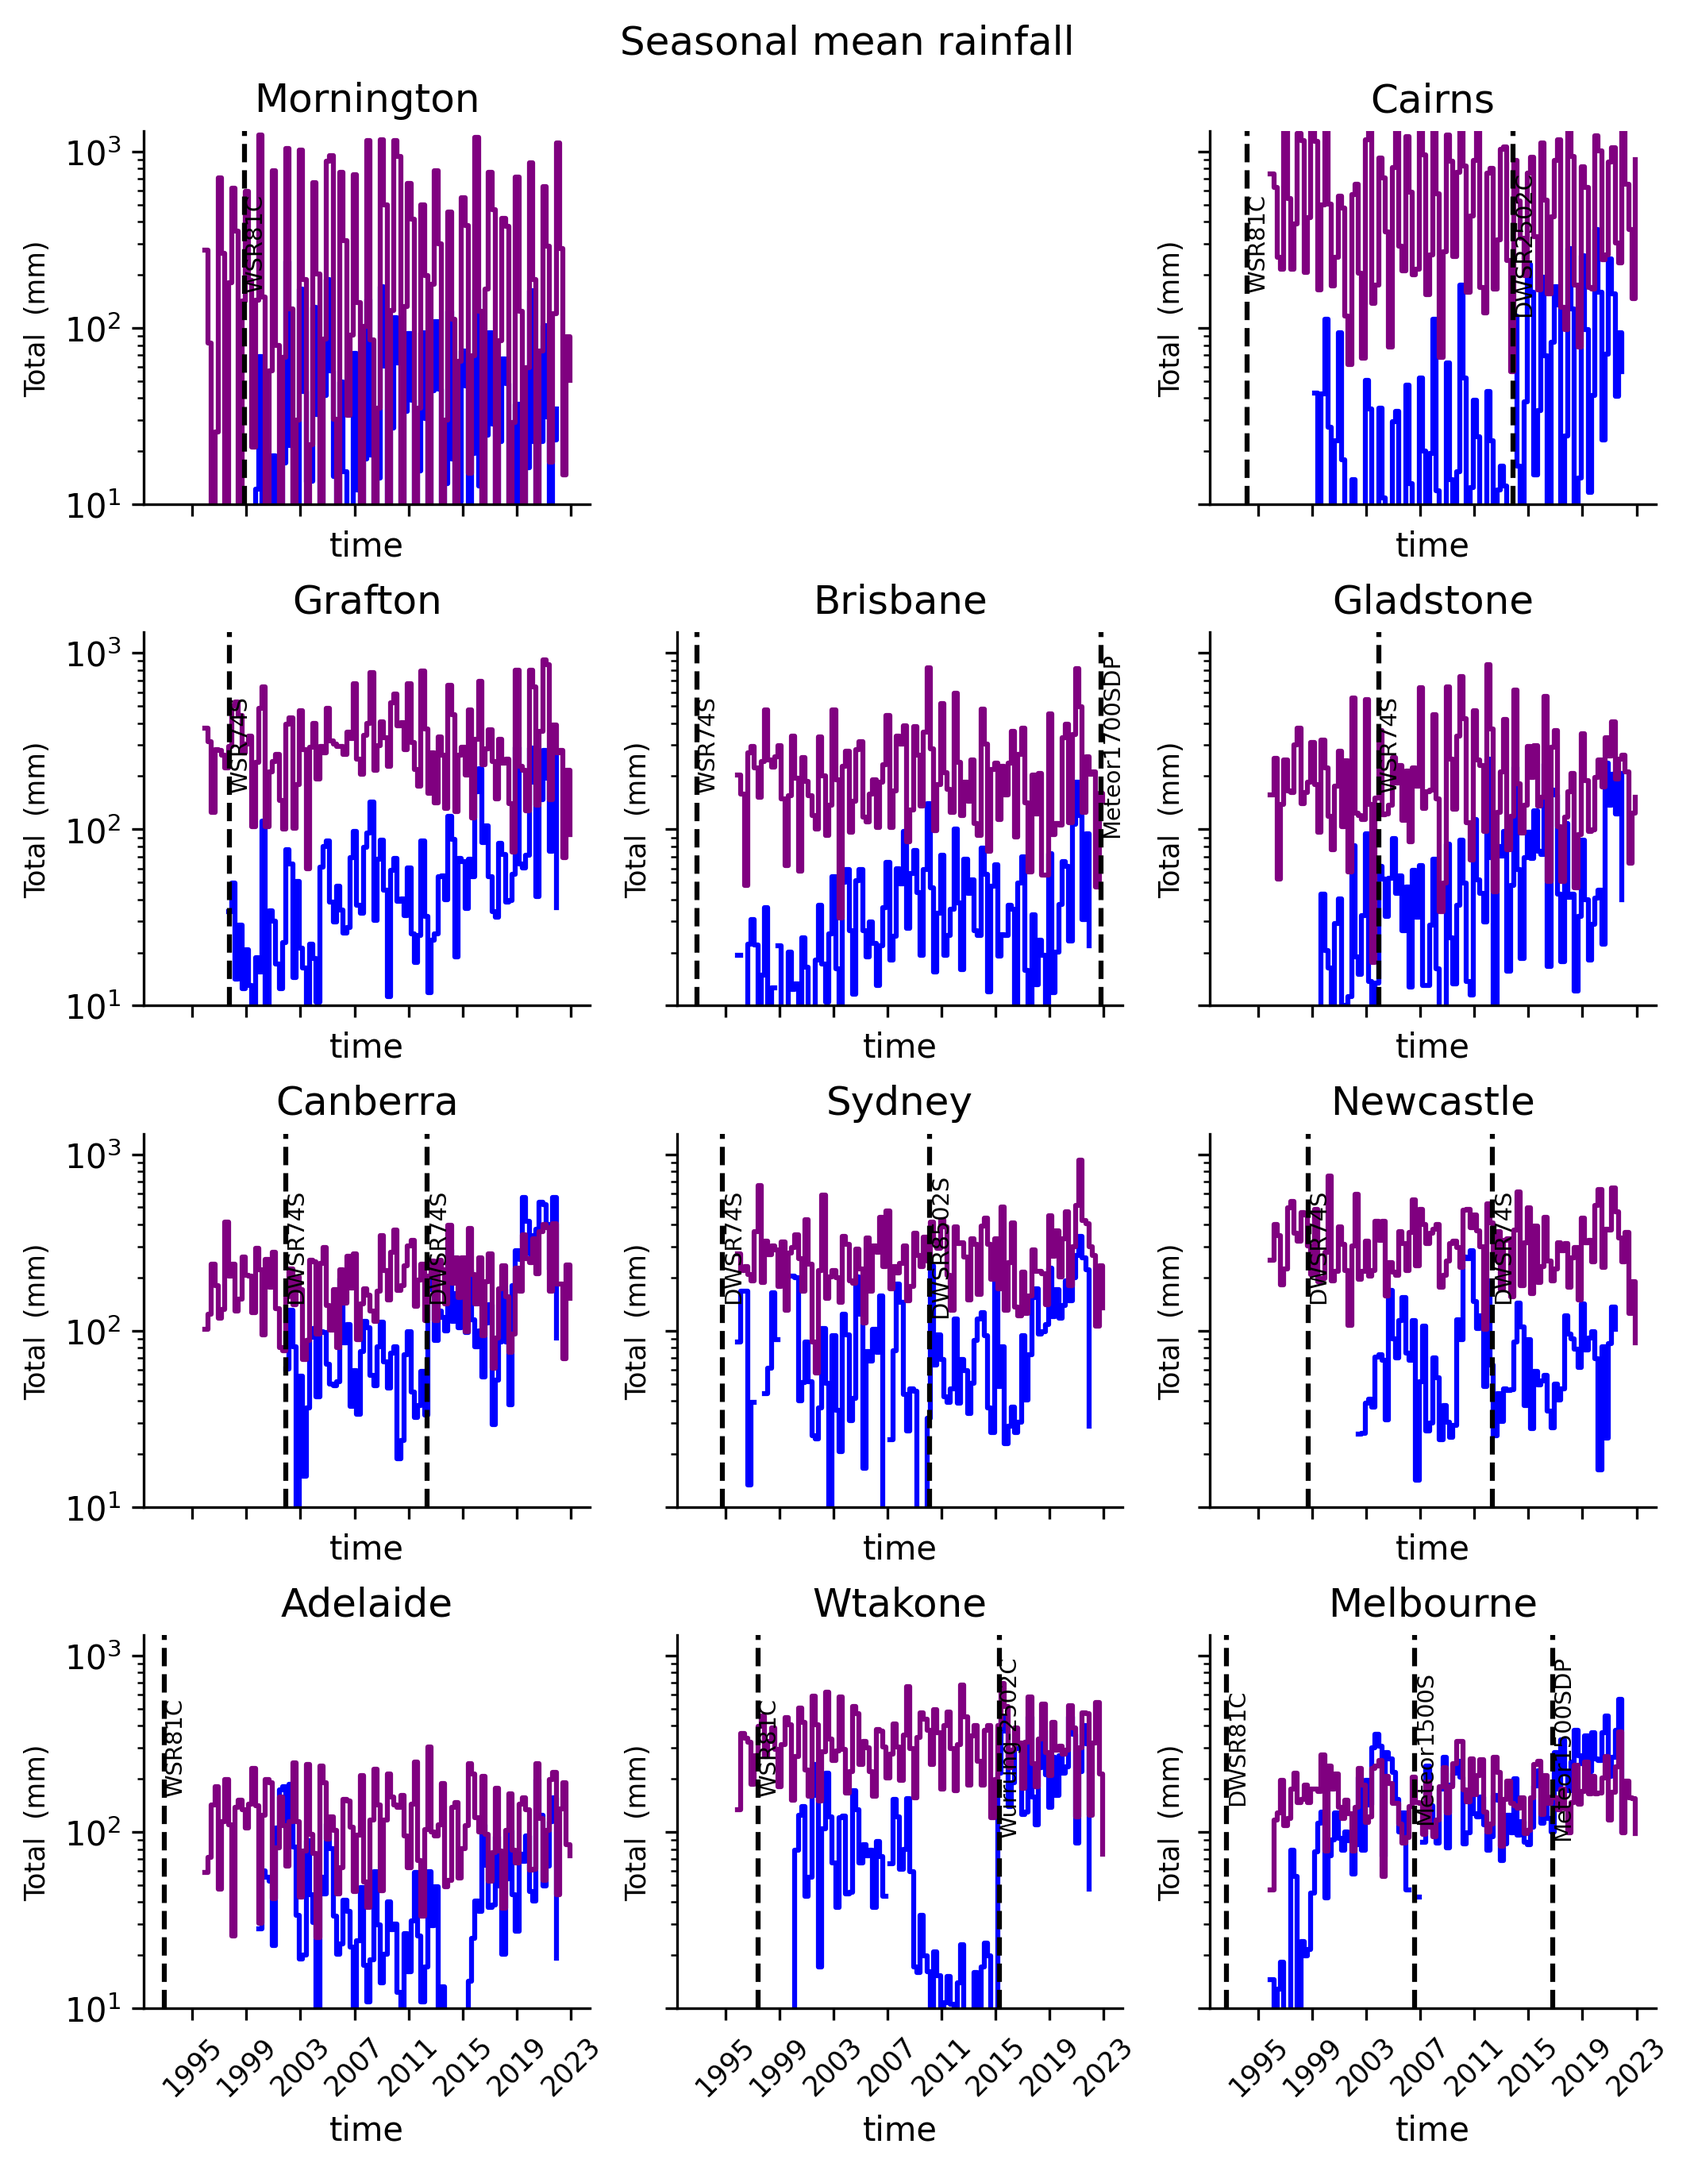
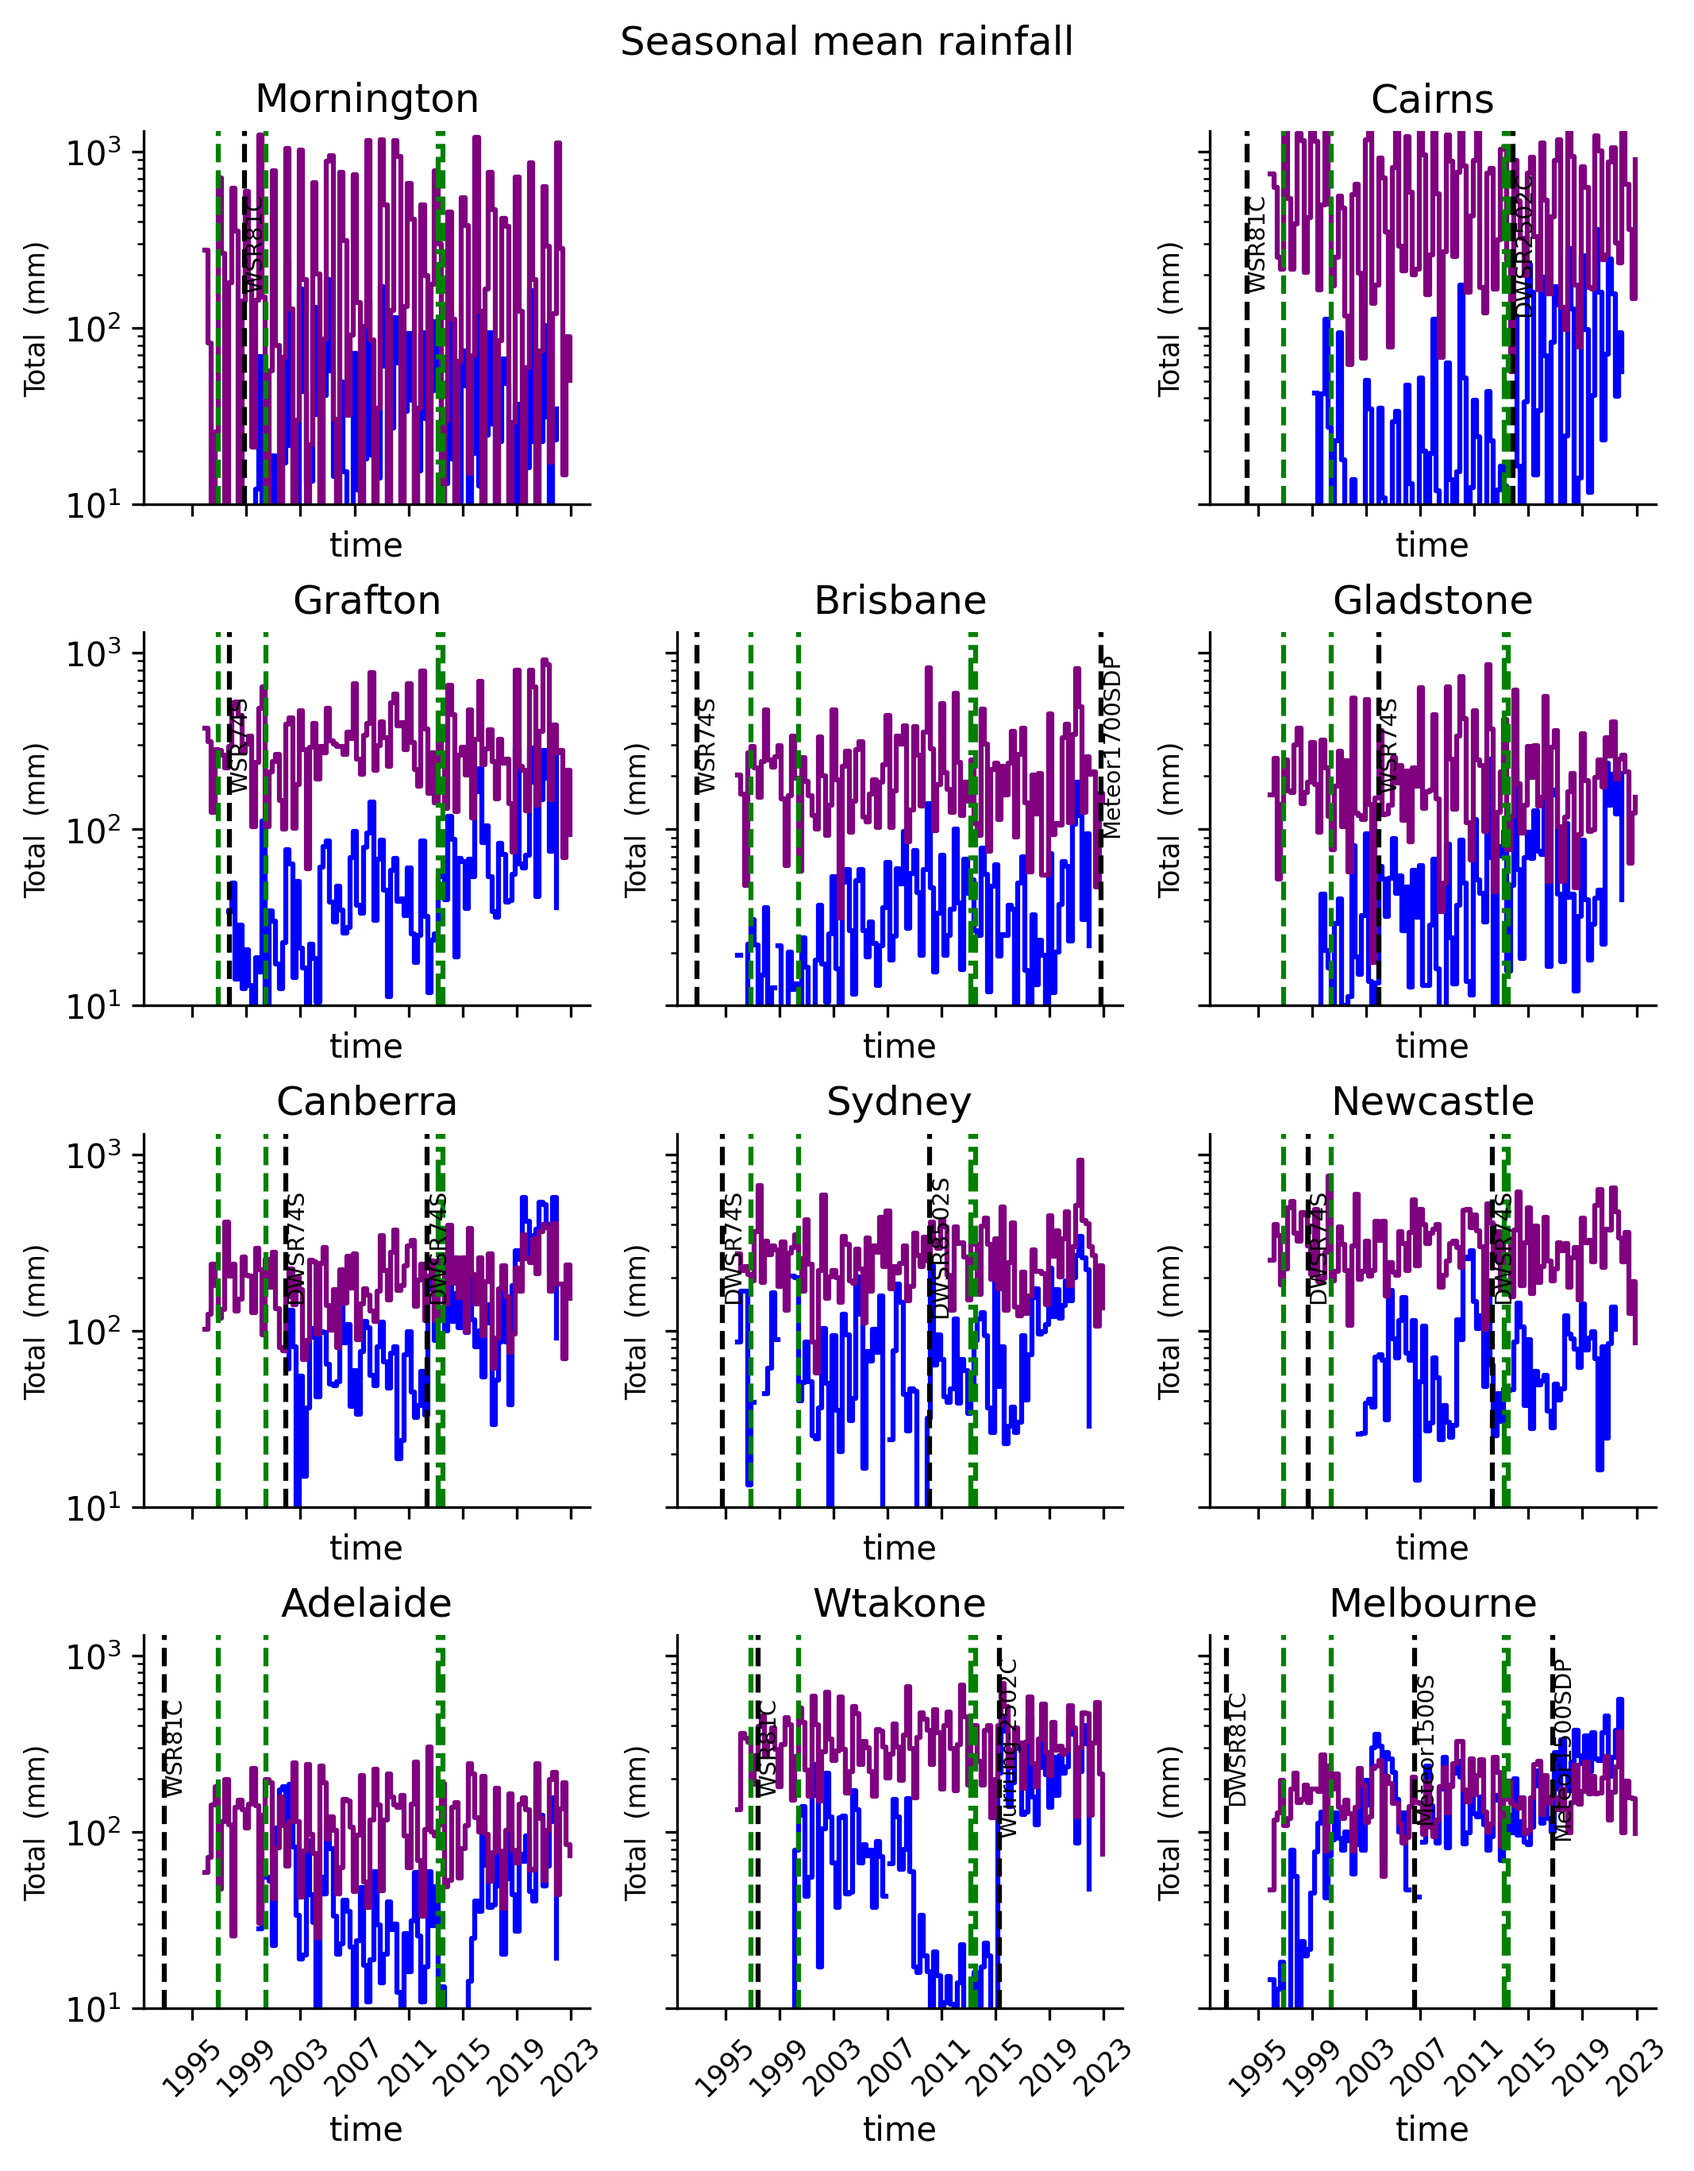
More cleaning figures. TRMM/GPMM now shown.

diff --git a/ausLib.py b/ausLib.py
@@ -1384,13 +1384,14 @@ def comp_ratios(gev_parameters: xarray.Dataset, covariance: str | list[str] = 'T
     da=xarray.concat(da,dim='parameter')
     return da
 
-def plot_radar_change(ax:matplotlib.pyplot.axes,radar_site:pd.DataFrame):
+def plot_radar_change(ax:matplotlib.pyplot.axes,radar_site:pd.DataFrame,
+                      trmm:bool = False) -> None:
     """
     Plot the change times on an existing axis
     Args:
         ax: axis on which to plot
         radar_site: dataframe of radar site information. Each row corresponds to change at site
-
+        trmm: If set True plot TRMM availability + orbit boost. GPM also plotted.
     Returns:
 
     """
@@ -1402,5 +1403,9 @@ def plot_radar_change(ax:matplotlib.pyplot.axes,radar_site:pd.DataFrame):
         ax.axvline(x, color='k', linestyle='--')
         ax.text(x, 0.7, r.radar_type, transform=ax.get_xaxis_transform(),
                 ha='left', va='center', fontsize='x-small', rotation=90)
-
+    if trmm: # plot TRMM range
+        for d in ['1997-11-27','2001-06-08','2014-07-15']:
+            ax.axvline(np.datetime64(d),color='green',linewidth=1.5,linestyle='--')
+        d='2014-03-10' # guess for when  first data from GPMM is
+        ax.axvline(np.datetime64(d),color='green',linewidth=1.5,linestyle='dashdot')
 

diff --git a/plot_mean_monthly_rain.py b/plot_mean_monthly_rain.py
@@ -105,7 +105,7 @@ for site,ax in axs.items():
     ax2.set_ylim(0.05,None)
     for a in [ax,ax2]:
         a.set_yscale('log')
-        ausLib.plot_radar_change(a, site_info[site])
+        ausLib.plot_radar_change(a, site_info[site],trmm=True)
 
 fig.suptitle('Seasonal mean rainfall')
 fig2.suptitle('3-month rolling Radar/Gauge')
@@ -139,7 +139,8 @@ for a in [ax,ax_ratio]:
     a.set_xlabel('Time')
     a.tick_params(axis='x', labelsize='small',rotation=45) # set small font!
     a.set_yscale('log')
-    ausLib.plot_radar_change(a,site_info['Sydney'])
+    ausLib.plot_radar_change(a,site_info['Sydney'],trmm=True)
+    a.label_outer()
 
 ax.legend()
 fig.show()
